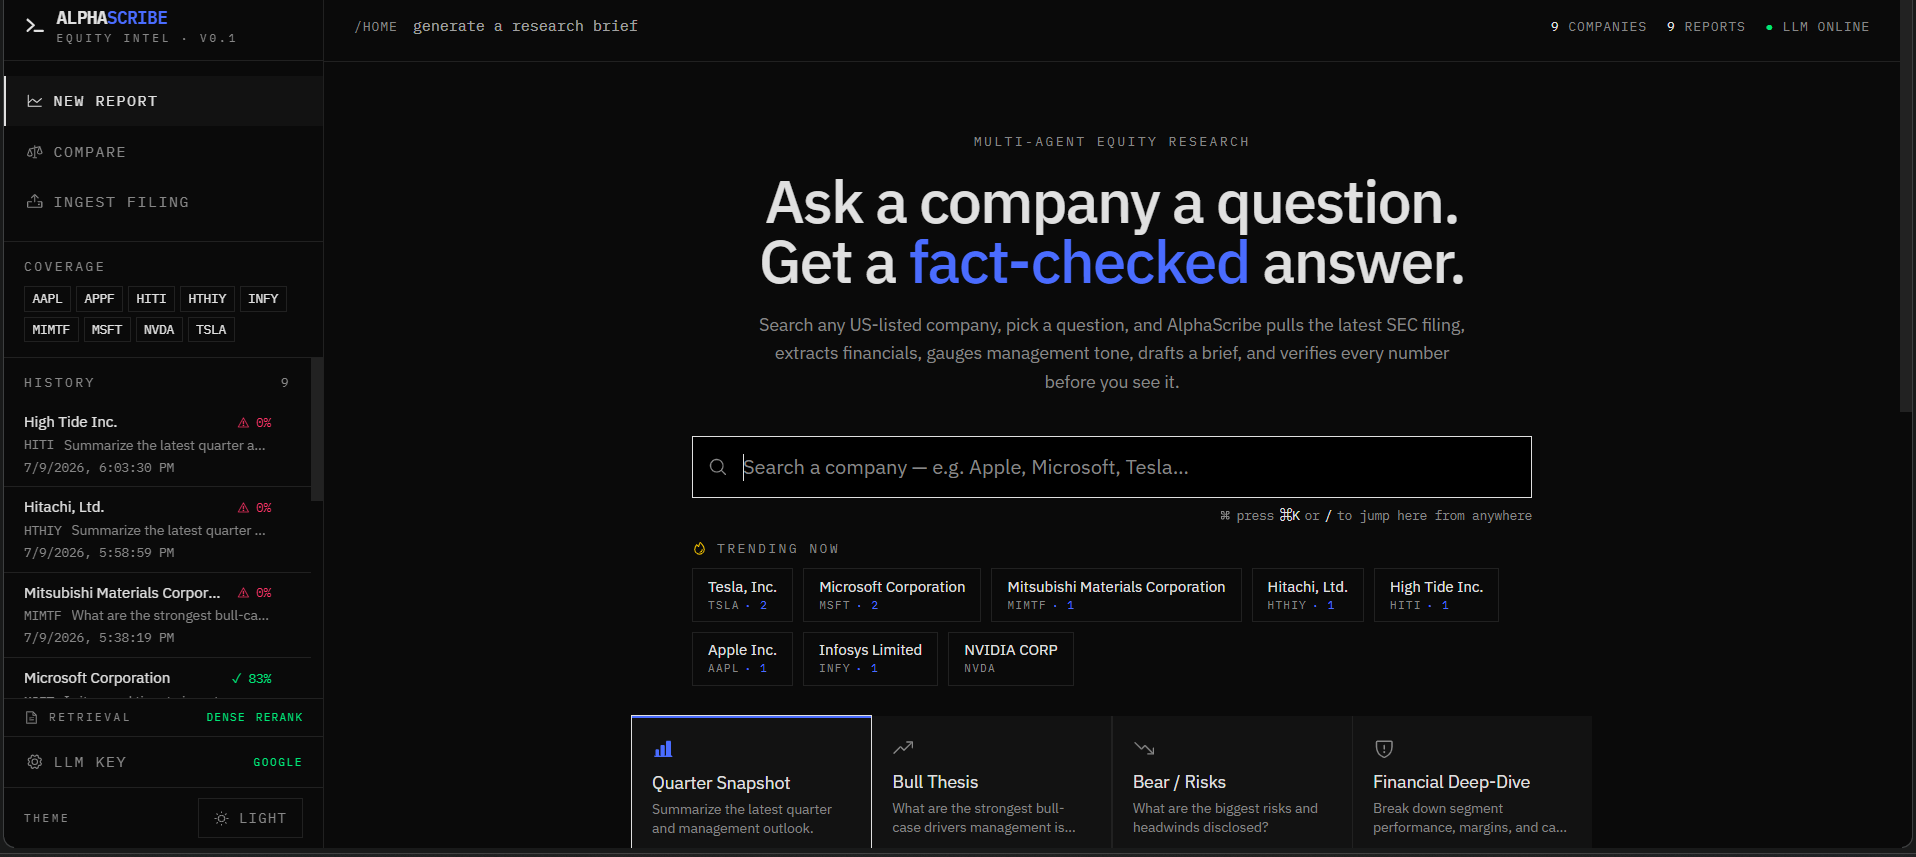
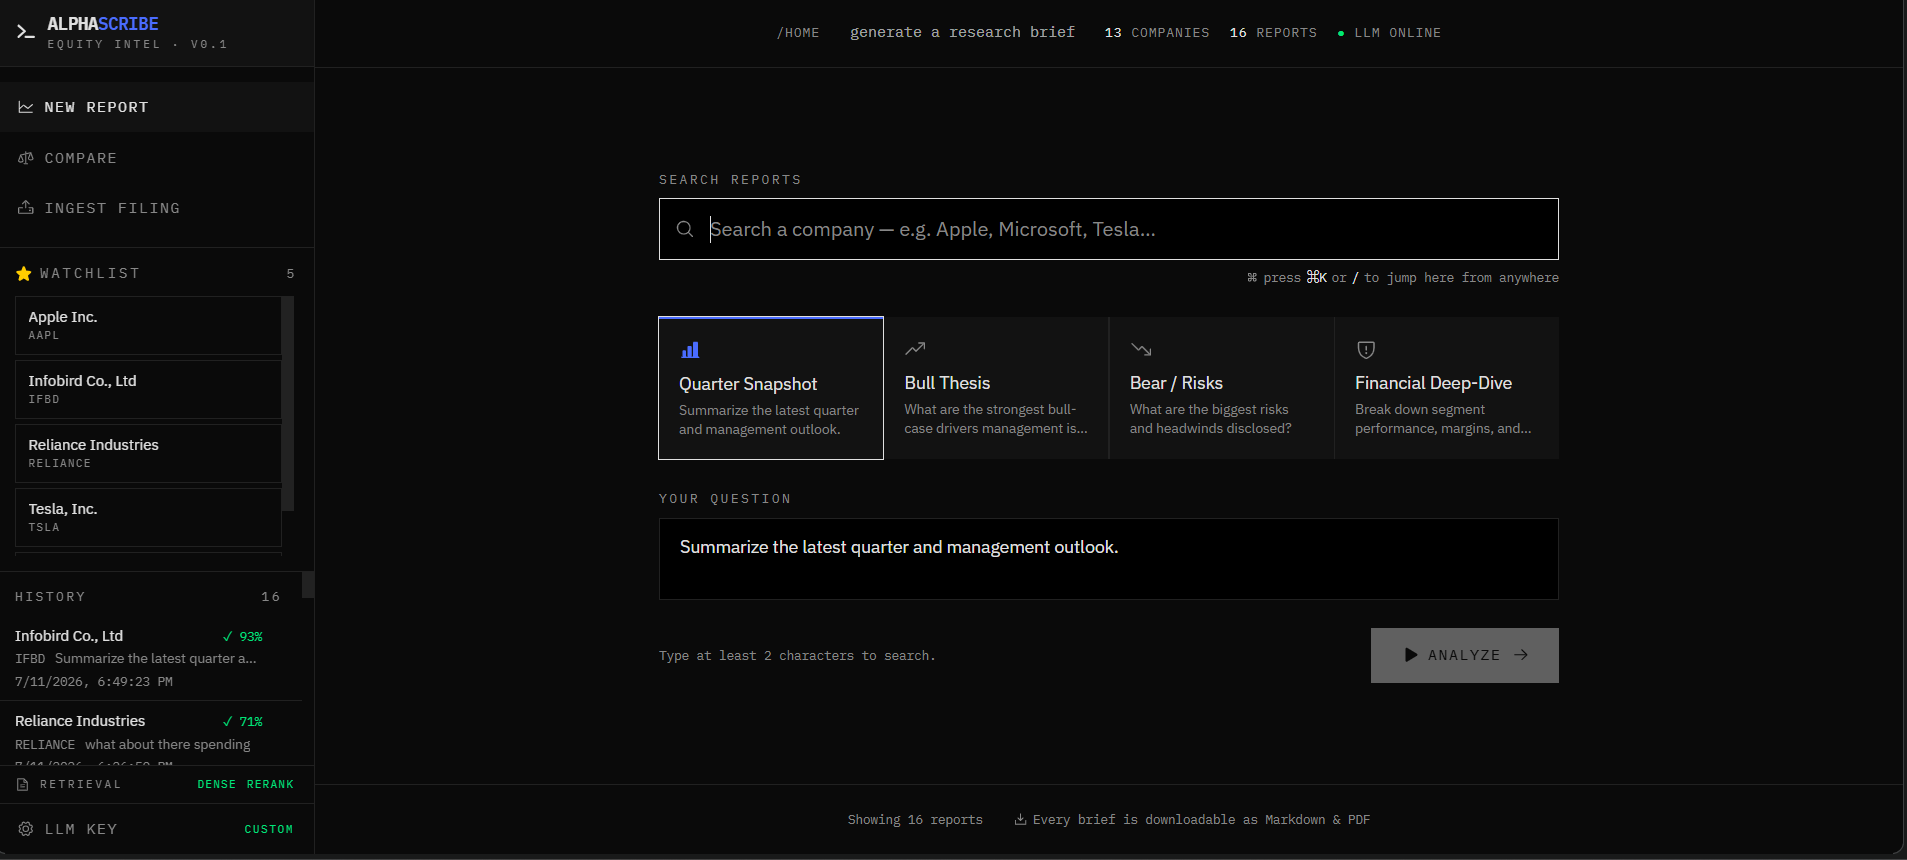
README: add landing-page screenshot; refresh dashboard image

diff --git a/README.md b/README.md
@@ -154,6 +154,13 @@ run.py / run.bat         one-command local launcher
 
 ## 📸 Screenshots
 
+### Landing — ask a company a question, get a fact-checked answer
+
+![AlphaScribe landing page](docs/landing_page.png)
+
+The marketing home page: a one-line pitch, a live demo terminal, and links into
+the app and docs.
+
 ### Dashboard — ask a company a question
 
 ![AlphaScribe dashboard](docs/dashboard.png)
